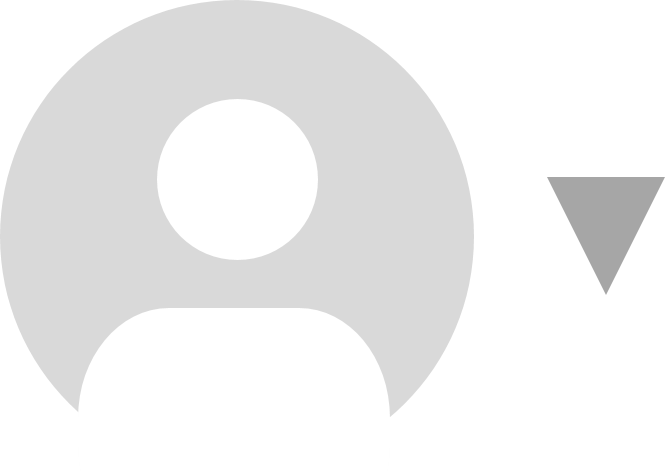
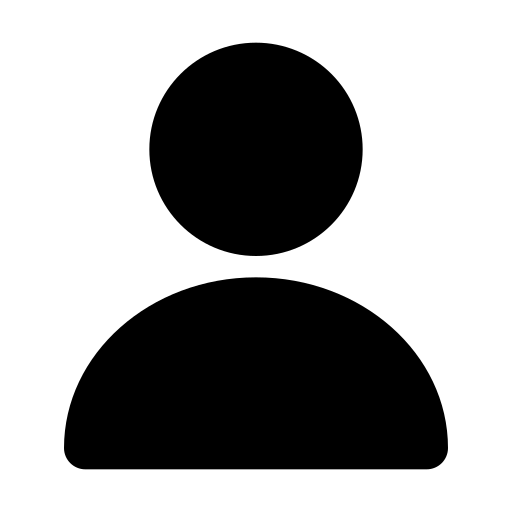
flx: 버그수정 및 프로필페이지 일부 구현현

diff --git a/client/src/componant/content/gallery.js b/client/src/componant/content/gallery.js
@@ -1,14 +1,18 @@
 import Masonry from 'react-masonry-css';
 import { useEffect, useRef, useState } from 'react';
 
-export default function Gallery() {
+export default function Gallery(props) {
+
+  // 갤러리를 마운트한 페이지의 src
+  const { src } = props;
+
   const breakpointColumnsObj = {
-    default: 5,
-    1536: 5,
-    1280: 4,
-    1024: 3,
-    768: 2,
-    640: 1,
+    default: src === "profile" ? 3 : 5,
+    1536: src === "profile" ? 3 : 5,
+    1280: src === "profile" ? 2 : 4,
+    1024: src === "profile" ? 1 : 3,
+    768: src === "profile" ? 1 : 2,
+    640: src === "profile" ? 1 : 1,
   };
 
   const [items, setItems] = useState([...Array(30).keys()]);
@@ -50,50 +54,51 @@ export default function Gallery() {
   }, [items, windowWidth]); // ← 이건 유지해도 됨
 
   return (
-    <div className="h-[75%] sm:h-[75%] sm:overflow-y-auto overflow-x-hidden sm:p-4 sm:pr-8">
-      {/* ✅ PC화면 무한스크롤 */}
-      <Masonry
-        breakpointCols={breakpointColumnsObj}
-        className="hidden sm:flex gap-5"
-        columnClassName="flex flex-col gap-5"
-      >
-        {items.map((i) => (
-          <div
-            key={i}
-            className={`bg-red-500 rounded-2xl text-white text-center ${
-              i % 3 === 1
-                ? 'h-[500px]'
-                : i % 3 === 2
-                ? 'h-[400px]'
-                : 'h-[300px]'
-            }`}
-          >
-            <img
-              className="w-full h-full object-cover rounded-2xl"
-              src={`/images/이미지 (${i + 1}).jpg`}
-              alt="이미지"
-            ></img>
-          </div>
-        ))}
-        {/* 👇 무한 스크롤 감시 대상 요소 */}
-        <div ref={observerRef} className="h-]" />
-      </Masonry>
-
-      {/* ✅ 모바일화면 고정 리스트 */}
-      <div className="block sm:hidden h-full overflow-y-auto overflow-x-hidden">
-        {Array.from({ length: 100 }, (_, i) => (
-          <div key={i}>
-            <div className="bg-gray-200 h-[500px] w-screen ">
+    <>
+      <div className={` h-[100%] sm:h-[100%] sm:overflow-y-auto overflow-x-hidden sm:p-4 sm:pr-8 ${src === "profile" ? "sm:w-[50%]" : ""}`}>
+        {/* ✅ PC화면 무한스크롤 */}
+        <Masonry
+          breakpointCols={breakpointColumnsObj}
+          className="hidden sm:flex gap-5"
+          columnClassName="flex flex-col gap-5"
+        >
+          {items.map((i) => (
+            <div
+              key={i}
+              className={`bg-red-500 rounded-2xl text-white text-center ${i % 3 === 1
+                  ? 'h-[500px]'
+                  : i % 3 === 2
+                    ? 'h-[400px]'
+                    : 'h-[300px]'
+                }`}
+            >
               <img
-                className="w-full h-full object-cover"
+                className="w-full h-full object-cover rounded-2xl"
                 src={`/images/이미지 (${i + 1}).jpg`}
                 alt="이미지"
               ></img>
             </div>
-            <div className=" h-[23vh] w-screen"></div>
-          </div>
-        ))}
+          ))}
+          {/* 👇 무한 스크롤 감시 대상 요소 */}
+          <div ref={observerRef} className="h-]" />
+        </Masonry>
+
+        {/* ✅ 모바일화면 고정 리스트 */}
+        <div className="block sm:hidden h-full overflow-y-auto overflow-x-hidden">
+          {Array.from({ length: 100 }, (_, i) => (
+            <div key={i}>
+              <div className="bg-gray-200 h-[500px] w-screen ">
+                <img
+                  className="w-full h-full object-cover"
+                  src={`/images/이미지 (${i + 1}).jpg`}
+                  alt="이미지"
+                ></img>
+              </div>
+              <div className=" h-[23vh] w-screen"></div>
+            </div>
+          ))}
+        </div>
       </div>
-    </div>
+    </>
   );
 }

diff --git a/client/src/componant/menu.js b/client/src/componant/menu.js
@@ -17,7 +17,7 @@ export default function Menu(props) {
   const {current_src} = props;
 
   const img_src = Object.fromEntries(
-    [1, 2, 3, 4].map(n => [n, n === current_src ? 1 : 2])
+    [1, 2, 3, 4, 5].map(n => [n, n === current_src ? 1 : 2])
   );
   
 
@@ -34,7 +34,7 @@ export default function Menu(props) {
           <Link to="/home"><div className={text}><img className={img_size} src={`images/홈${img_src[1]}.png`} alt="홈"></img><p className={`${m_menu} sm:ml-1`} name="홈">홈</p></div></Link>
           <Link to="/community"><div className={text}><img className={img_size} src={`images/커뮤니티${img_src[2]}.png`} alt="커뮤니티"></img><p className={`${m_menu} sm:ml-1`} name="커뮤니티">커뮤니티</p></div></Link>
           <div className={text}><img className={img_size} src='/images/위치2.png' alt="장소추천"></img><p className={`${m_menu} sm:ml-1`} name="장소추천">장소추천</p></div>
-          <div className={text}><img className={img_size} src='/images/더하기2.png' alt="더하기"></img><p className={`${m_menu} sm:ml-1`} name="더하기">프로필</p></div>
+          <Link to="/profile"><div className={text}><img className={img_size} src={`/images/프로필${img_src[4]}.png`} alt="프로필"></img><p className={`${m_menu} sm:ml-1`} name="프로필">프로필</p></div></Link>
           <div className={text}><img className={img_size} src='/images/더하기2.png' alt="더하기"></img><p className={`${m_menu} sm:ml-1`} name="더하기">만들기</p></div>
         </div>
 

diff --git a/client/src/componant/content/header.js b/client/src/componant/content/header.js
@@ -13,7 +13,7 @@ export default function Header() {
             <div className={"flex sm:flex-col sm:justify-center sm:items-center h-[15%] sm:h-[15%] sm:relative"}>
                 {/* PC화면 기본요소 */}
                 <div className={"hidden sm:flex sm:item-center sm:w-full sm:h-[40px]"}>
-                    <div className={"absolute w-9 mx-8 mt-[0.45rem] right-search-line-after"}><img src="/images/프로필1.png" alt="프로필1" className={"w-full h-full"}></img></div>
+                    <div className={"absolute w-9 mx-8 mt-[0.45rem] right-search-line-after"}><img src="/images/프로필.png" alt="프로필" className={"w-full h-full"}></img></div>
                     <input type='text' id='search' name='search' className={"h-full w-[77%] pl-20 rounded-full mx-5 shadow-lg border-[1px] border-gray-400"}></input>
                     <div className={`${item_center} h-full w-[100px] rounded-full font-sans shadow-lg border-[1px] border-gray-400 ml-16 mr-5 ${button_hover}`}><Link to="/login">로그인</Link></div>
                     <div className={`${item_center} h-full w-[120px] rounded-full font-sans shadow-lg border-[1px] border-gray-400 ${button_hover}`}><Link to="/signup">회원가입</Link></div>

diff --git a/client/src/componant/content/contents.js b/client/src/componant/content/contents.js
@@ -2,16 +2,21 @@ import Footer from "./footer";
 import Gallery from "./gallery";
 import Header from "./header";
 
-export default function Contents(){
+export default function Contents(props) {
+    // 콘텐츠를 마운트한 페이지의 src
+    const { src } = props;
 
     return (
-        <>  
+        <>
             {/* 검색창 */}
-            <Header/>
+            <Header />
             {/* 콘텐츠 */}
-            <Gallery/>
+            <div className="flex h-[75%]">
+                <div className={`${src === "profile" ? "sm:flex" : "sm:hidden"} hidden w-[50%] bg-red-300`}>fdsf</div>
+                <Gallery src={src} />
+            </div>
             {/* 풋터 */}
-            <Footer/>
+            <Footer />
             {/* (모바일)이미지 호버 */}
             {/* <div className={"sm:hidden flex-grow-4 bg-green-700"}>4</div> */}
         </>

diff --git a/client/src/componant/home.js b/client/src/componant/home.js
@@ -7,11 +7,11 @@ export default function Home() {
   return (
     <>
       {/*가장 바깥영역 화면의 최대로 설정*/}
-      <div className="grid grid-cols-1 grid-rows-9 sm:grid-rows-1 sm:grid-cols-sm-minmax sm:grid-cols-9 h-screen">
+      <div className="grid grid-cols-1 grid-rows-9 sm:grid-rows-1 sm:grid-cols-sm-minmax sm:grid-cols-9 h-screen overflow-x-hidden">
         {/* 왼쪽: 가로 1 비율 (1/9) */}
         <Menu current_src = {1}/>
         {/* 오른쪽: 가로 8 비율 (8/9) */}
-        <div className=" flex flex-col flex-wrap row-span-9 sm:col-span-8 "><Contents/></div>
+        <div className=" flex flex-col flex-wrap row-span-9 sm:col-span-8 "><Contents src = "home"/></div>
       </div>
     </>
   );

diff --git a/client/src/componant/profile.js b/client/src/componant/profile.js
@@ -1,0 +1,18 @@
+import Contents from "./content/contents";
+import Menu from "./menu";
+
+export default function Profile() {
+    return (
+        <>
+            {/*가장 바깥영역 화면의 최대로 설정*/}
+            <div className="grid grid-cols-1 grid-rows-9 sm:grid-rows-1 sm:grid-cols-sm-minmax sm:grid-cols-9 h-screen overflow-x-hidden">
+                {/* 왼쪽: 가로 1 비율 (1/9) */}
+                <Menu current_src = {4} />
+                {/* 오른쪽: 가로 8 비율 (8/9) */}
+                <div className=" flex flex-col flex-wrap row-span-9 sm:col-span-8 ">
+                    <Contents src="profile"/>
+                </div>
+            </div>
+        </>
+    )
+}

diff --git a/client/src/App.js b/client/src/App.js
@@ -4,6 +4,7 @@ import Home from "./componant/home";
 import "./App.css";
 import Community from "./componant/community";
 import Login from "./componant/login";
+import Profile from "./componant/profile";
 
 function App() {
 
@@ -16,6 +17,7 @@ function App() {
           <Route path="/signup" element={<Login href = "signup"/>}></Route>
           <Route path="/home" element={<Home/>}></Route>
           <Route path="/community" element={<Community/>}/>
+          <Route path="/profile" element={<Profile/>}/>
         </Routes>
       </div>
     </BrowserRouter>

diff --git a/client/src/componant/base.js b/client/src/componant/base.js
@@ -6,7 +6,7 @@ export default function Base() {
   return (
     <>
       {/*가장 바깥영역 화면의 최대로 설정*/}
-      <div className="grid grid-cols-1 grid-rows-9 sm:grid-rows-1 sm:grid-cols-sm-minmax sm:grid-cols-9 h-screen">
+      <div className="grid grid-cols-1 grid-rows-9 sm:grid-rows-1 sm:grid-cols-sm-minmax sm:grid-cols-9 h-screen overflow-x-hidden">
         {/* 왼쪽: 가로 1 비율 (1/9) */}
         <Menu/>
         {/* 오른쪽: 가로 8 비율 (8/9) */}
